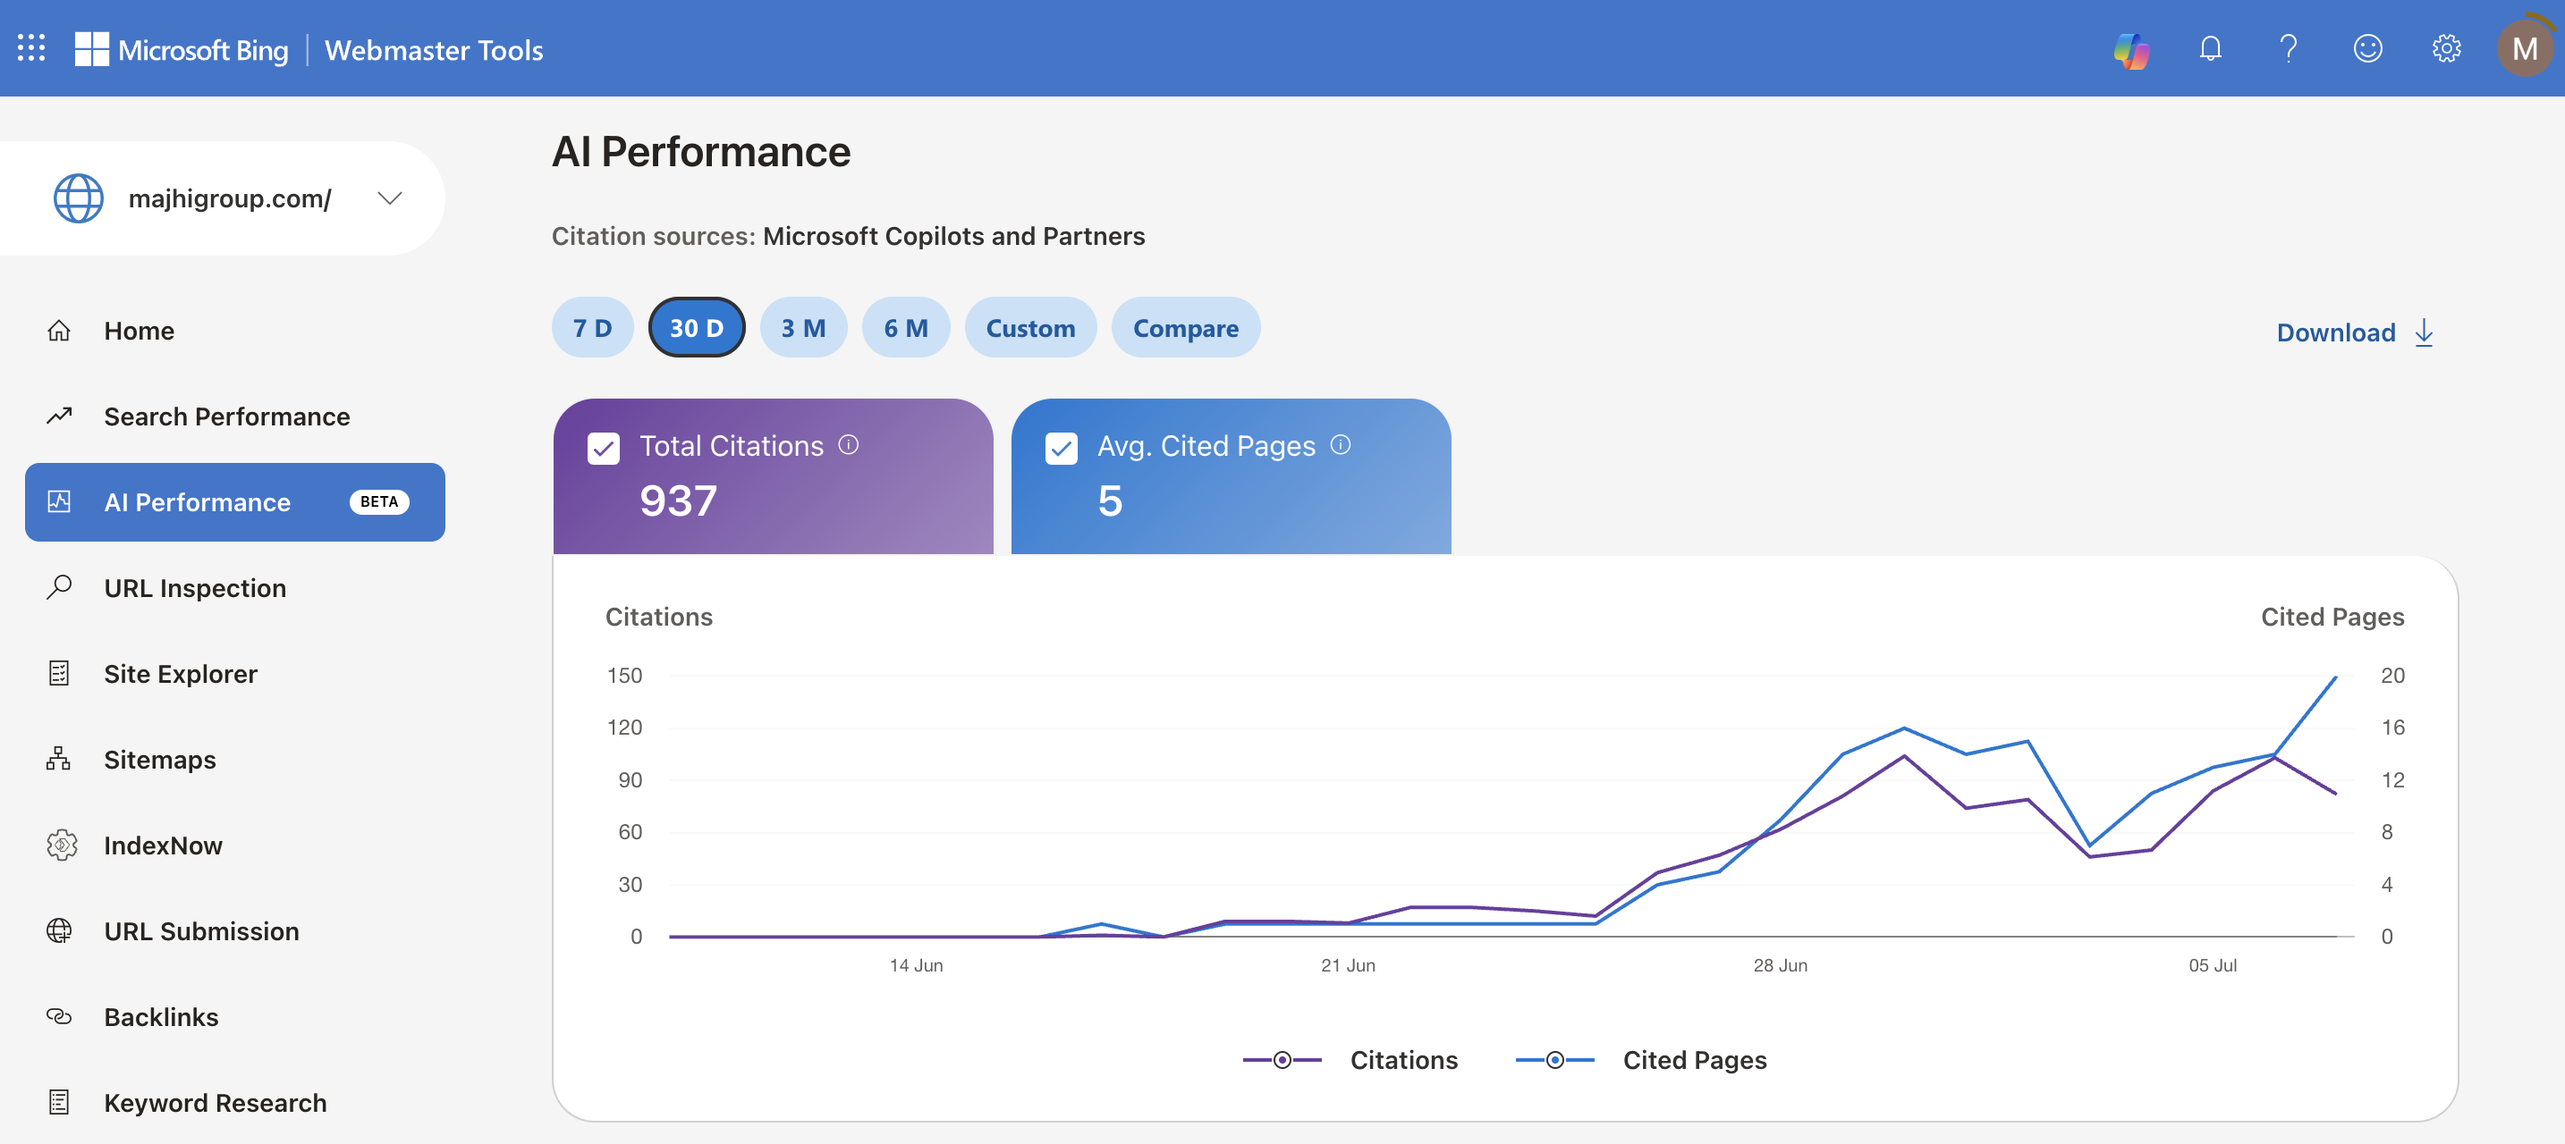
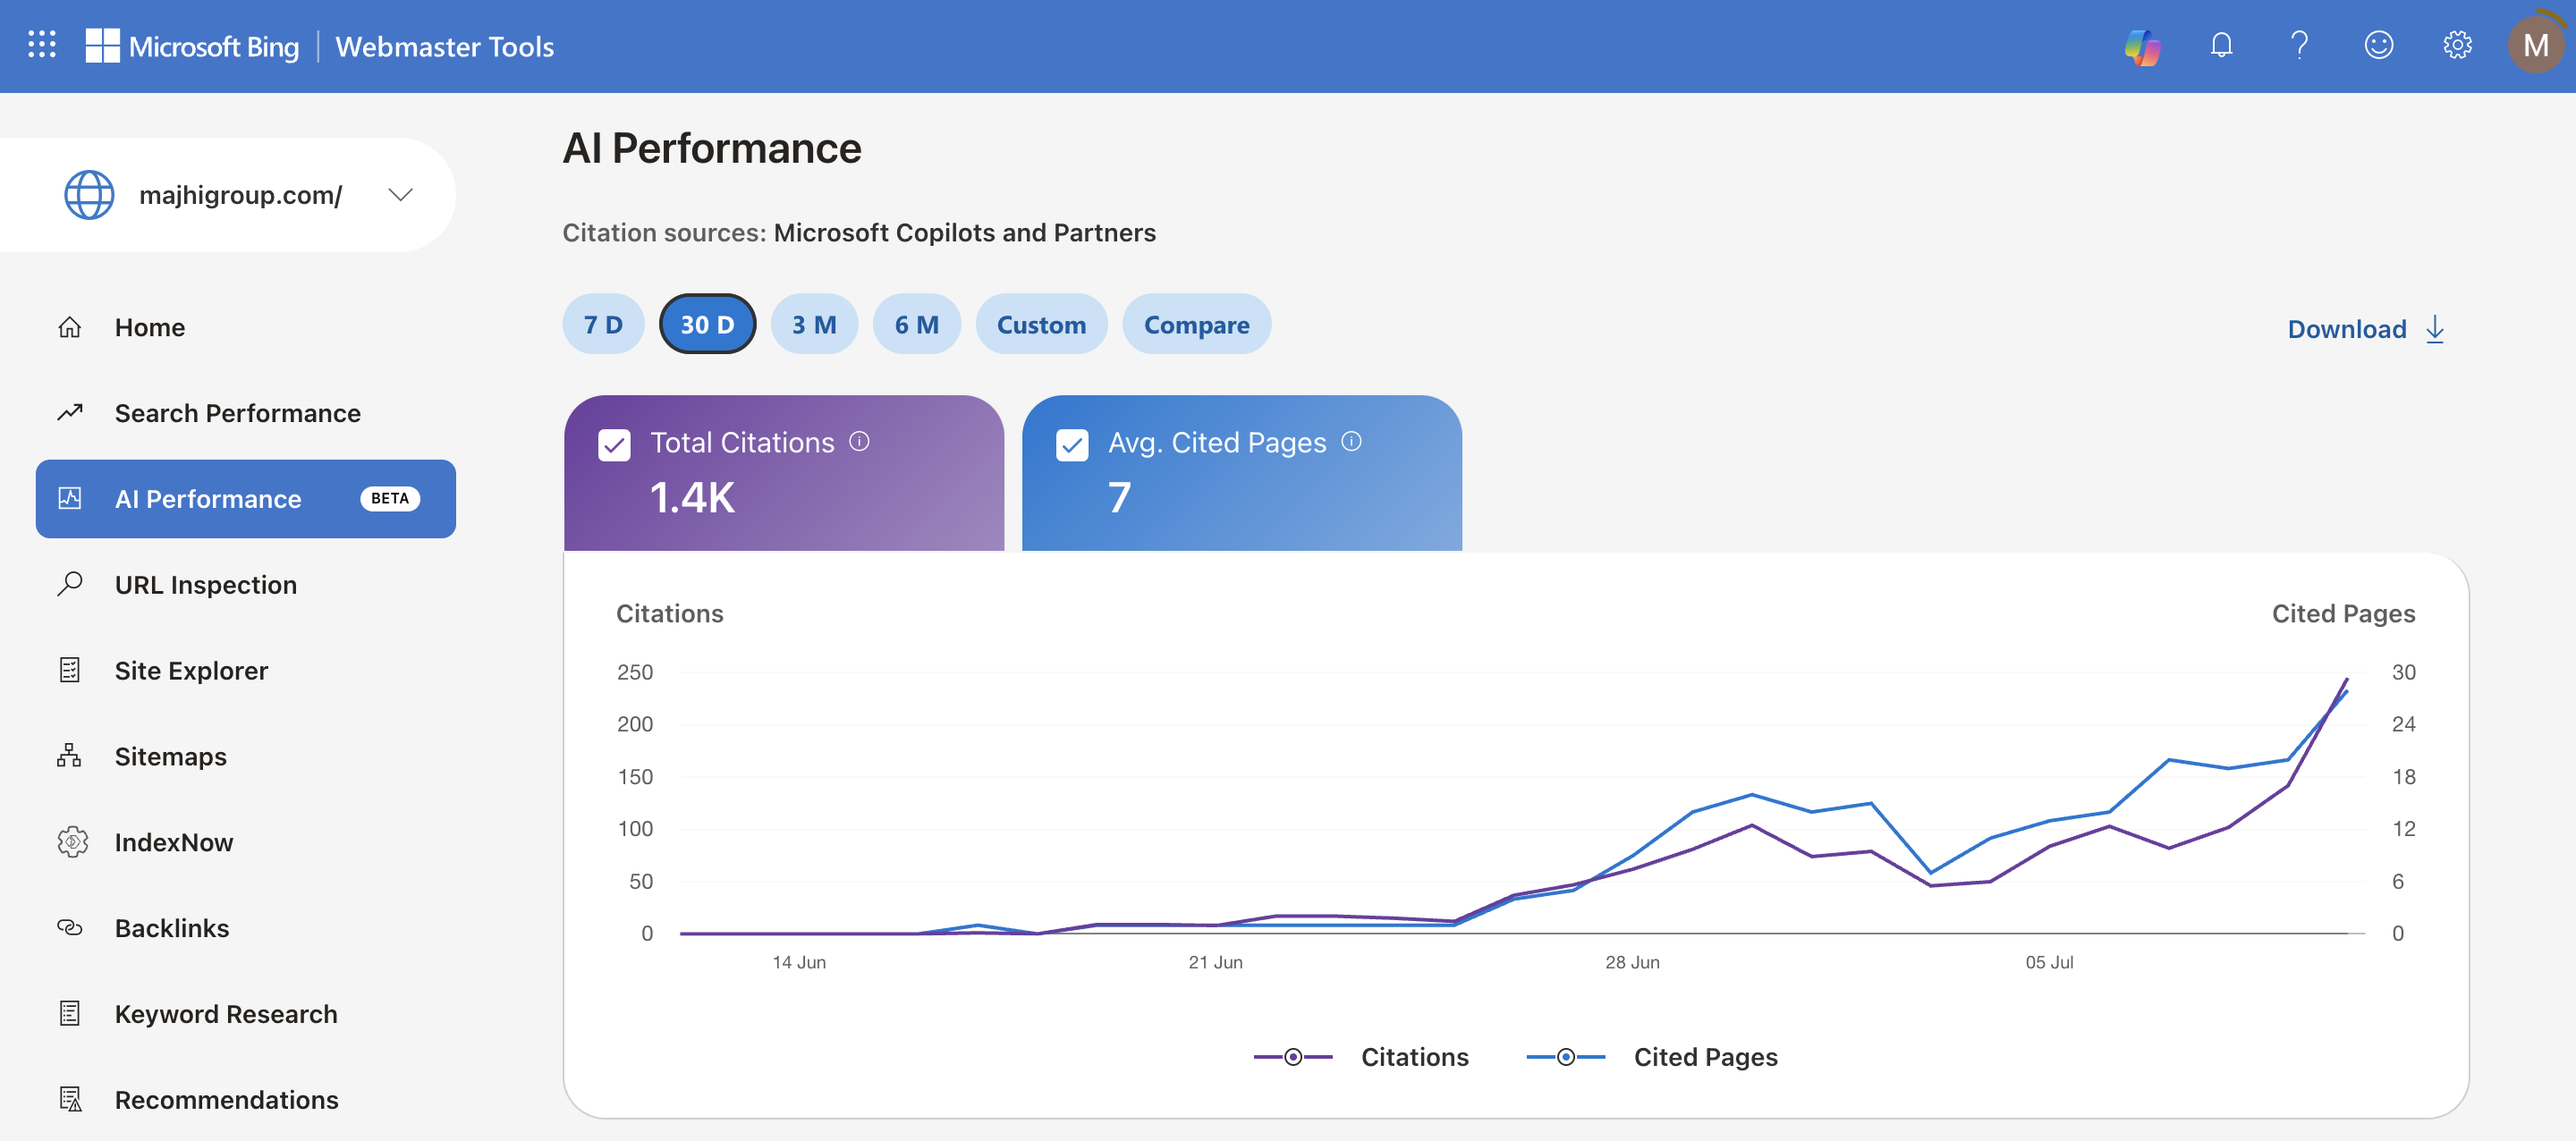
Update AI citations 1.2K→1.4K, screenshot 2880x1276

diff --git a/src/app/recognition/page.tsx b/src/app/recognition/page.tsx
@@ -431,7 +431,7 @@ export default function RecognitionPage() {
             {/* Stats row */}
             <div className="grid grid-cols-3 gap-px border border-border rounded-lg overflow-hidden mt-6">
               <div className="bg-muted/30 px-6 py-5">
-                <p className="font-serif text-3xl font-medium">1.2K</p>
+                <p className="font-serif text-3xl font-medium">1.4K</p>
                 <p className="text-xs uppercase tracking-widest text-muted-foreground mt-1">
                   AI citations
                 </p>
@@ -454,9 +454,9 @@ export default function RecognitionPage() {
             <div className="rounded-lg overflow-hidden border border-border mt-2">
               <Image
                 src="/awards/bing-webmaster-ai-citations.png"
-                alt="Microsoft Bing Webmaster Tools — AI Performance dashboard showing 1.2K total citations and 7 average cited pages for majhigroup.com over the last 30 days, sourced from Microsoft Copilots and Partners"
-                width={2868}
-                height={1280}
+                alt="Microsoft Bing Webmaster Tools — AI Performance dashboard showing 1.4K total citations and 7 average cited pages for majhigroup.com over the last 30 days, sourced from Microsoft Copilots and Partners"
+                width={2880}
+                height={1276}
                 className="w-full h-auto"
                 loading="lazy"
               />
